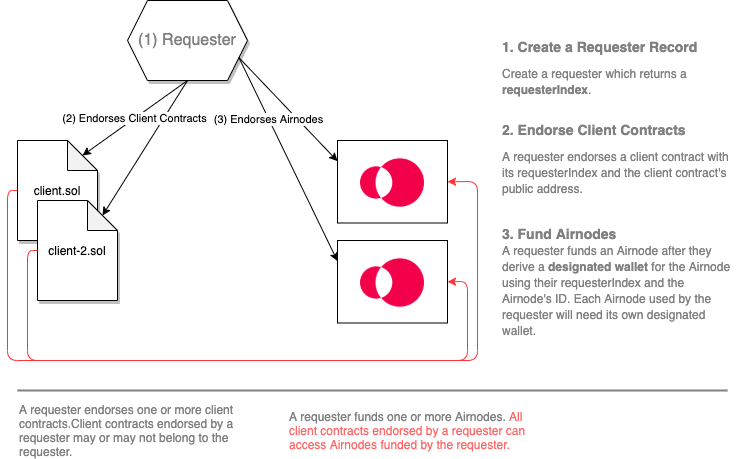
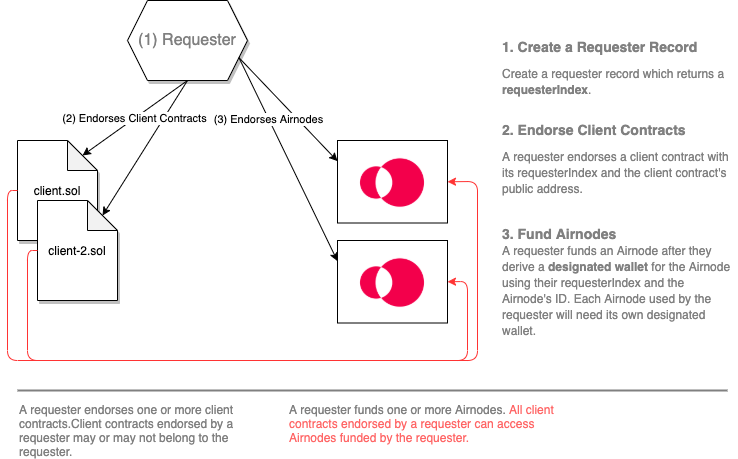
Daily changes Some cleanup on API3 Members role docs. Worked back into the Requesters role headed for the Call an Airnode doc.

Changed region(s): [[0.374, 0.8845, 0.748, 0.976], [0.8103, 0.1525, 0.9973, 0.183]]

diff --git a/docs/.vuepress/components/ChainsSupported.vue b/docs/.vuepress/components/ChainsSupported.vue
@@ -1,35 +1,42 @@
 <template>
   <div>
-    
     <table v-show="version=='0.1.0'">
       <tr>
         <th>Blockchain</th>
         <th>ID</th>
-        <th>AirnodeRrp.sol (contract ID)</th>
+        <th>AirnodeRrp.sol (public address)</th>
       </tr>
       <tr>
-        <td>mainnet</td><td>1</td><td>...</td>
-      </tr>
-      <tr>
-        <td>ropsten</td><td>3</td><td>0xF6d2675468989387e96127546e0CBC9A384fa418</td>
-      </tr>
-      <tr>
-        <td>rinkeby</td><td>4</td><td>...</td>
-      </tr>
-      <tr>
-        <td>goerli</td><td>5</td><td>...</td>
-      </tr>
-      <tr>
-        <td>kovan</td><td>42</td><td>...</td>
-      </tr>
-      <tr>
-        <td>xdai</td><td>100</td><td>...</td>
+        <td style="width:100px;">mainnet</td><td style="width:27px;">1</td><td>...</td>
       </tr>
     </table>
-    <h5 style="margin-top:-14px;color:gray;max-width:580px;">
+    <details class="collapse-chain-box">
+      <summary class="collapse-chain-summary"> View more...</summary>
+      <table v-show="version=='0.1.0'">
+
+        <tr style="margin-top:20px;">
+          <td style="width:100px;">ropsten</td><td style="width:27px;">3</td><td>0xF6d2675468989387e96127546e0CBC9A384fa418</td>
+        </tr>
+        <tr>
+          <td>rinkeby</td><td>4</td><td>...</td>
+        </tr>
+    
+        <tr>
+          <td>goerli</td><td>5</td><td>...</td>
+        </tr>
+        <tr>
+          <td>kovan</td><td>42</td><td>...</td>
+        </tr>
+        <tr>
+          <td>xdai</td><td>100</td><td>...</td>
+        </tr>
+      </table>
+    </details>
+    
+    <h5 style="margin-top:-10px;color:gray;max-width:680px;">
       Airnode version: {{version}}. This table shows EVM-compatible blockchains that 
-      the AirnodeRrp.sol protocol contract has been deployed to as well as the contract ID of each.
-      </h5>
+      the AirnodeRrp.sol protocol contract has been deployed to as well as the public address of each.
+    </h5>
   </div>
 </template>
 
@@ -42,3 +49,16 @@
     }
   }
 </script>
+
+<style scoped>
+.collapse-chain-box{
+  margin-top:-5px;
+  padding-bottom:20px;
+}
+
+.collapse-chain-summary{
+  cursor:pointer;
+  font-weight:bold;
+  margin-left:20px;
+}
+</style>

diff --git a/docs/.vuepress/components/VersionsModal.vue b/docs/.vuepress/components/VersionsModal.vue
@@ -13,8 +13,8 @@ Parameters from parent
 
 <template>
     <div class="modal" v-if="showModal" v-click-outside="onClickOutside">
-        <div v-if="showModal" class="modal-content">
-            <div class="modal-body">
+        <div v-if="showModal">
+            <div>
                 <div style="border-bottom:1px solid lightgrey;">Versions</div>
                   <div v-for="(vrs, index) in versions" :key="index" v-on:click="onClickOutside(vrs.url, $event)">
                     <router-link  :to="vrs.url">

diff --git a/docs/next/grp-members/dao-pool.md b/docs/next/grp-members/dao-pool.md
@@ -99,6 +99,12 @@ API3 aims to set up, maintain, and [monetize](dao-pool.md#monetization) dAPIs at
 ### Earning Rewards
 Earning rewards is simple: everyone who owns [shares of the DAO pool](./voting-power.md) (everyone who has staked API3 tokens into the DAO pool contract) will earn rewards as they are added to the DAO pool. When you schedule tokens to be unstaked, you stop earning rewards for those tokens.
 
+<Todo>
+
+The statement below does not seem to sync with the way the dashboard displays, which is by tokens and not shares.
+
+</Todo>
+
 Remember that when you stake, you receive non-transferable pool shares equal to the current total number of issued shares divided by the total number of tokens staked. Since the reward adds additional tokens to the pool, the "price" for one share will not always be one token.
 
 ### Inflationary Rewards
@@ -106,37 +112,46 @@ Remember that when you stake, you receive non-transferable pool shares equal to 
 In essence, inflationary rewards force token holders to stake and preserve the value of
 their tokens. However, staking is risky due to the funds being used as collateral for the [Insurance Service](dao-pool.md#insuracne-service), and forces the staker to participate in governance to ensure that the risk is minimized. As a combination of the two, an inflationary governance token used as collateral forces all token holders to participate in governance, which is ideal because it maximizes the decentralization of governance. Inflationary rewards are paid weekly by an implicit and automatic process through an on-chain contract.  Furthermore, inflationary rewards are vested for a year, which results in governing parties sharing the project’s long term interests.
 
-The inflationary rewards start at a 75% annual rate (1.44% weekly), and the
-number of tokens minted weekly will be decayed exponentially until annual inflation
-rate becomes 2.5% at the end of year 5. From this point on, the annual inflation
-will stay at a rate of 2.5% for perpetuity. The proposed inflation schedule will be governable.
-
+<!--
 > ![dao-pool-staking-2](../assets/images/token-weekly-emission.png)
 
 As a result the change in the total supply of API3 tokens is illustrated below.
 
 > ![dao-pool-staking-2](../assets/images/token-total-supply.png)
-
-:::tip Inflationary Rewards
-User X and Y both stake 500 API3 tokens, so each has 50% ownership in a 1000 token pool. For a particular week the reward payout is 1% (10 total tokens) and the pool is now 1010 tokens. X and Y now own 505 tokens each based on their 50% ownership. Remember that the 10 reward tokens will not vest for a period of one year.
-:::
+> -->
 
 ### Reward Calculation And Distribution
+
+The staking reward will float to have the total staked amount reach equilibrium at the target. In other words, the staking reward will increase while the staked amount is below the target, and vice versa. It will not have a pre-determined schedule.
+
+Reward amount is represented as APR (annual percentage rate). You can derive APY (annual percentage yield) using an [online calculator](https://www.aprtoapy.com/). Each week, stakers get paid roughly APR/52. There is a governable "APR update step", which is the step size each week the APR will be updated with. Also there are governable minimum and maximum APR values, but these (especially maximum APR) are there as safety measures and should not affect rewards in day-to-day operation. In general, governing the stake target will be the primary tool for regulating rewards.
+
 Rewards are added as staked API3 tokens into the DAO pool each time the `mintReward` function is called. `mintReward` is callable by anyone, once per "epoch" (currently 1 week). When it is called, an amount of API3 tokens is minted and added to the DAO pool:
 
 > `rewardAmount = totalStakedTokens * APR * epochLength / epochsPerYear / 100`
 
 In other words, *the reward is the annual percentage (APR) increase divided by the number of epochs per year (currently ~52)*.
 
-In addition, each time `mintReward` is called, the annual percentage (the reward rate) is updated up or down by APR update step size (1%), according to whether the total number of staked tokens is above or below its target. The initial target is 50%, so if the total number of staked tokens is less than 50% of the total token supply when `mintReward` is called, APR will be raised by 1% for the next reward payout (and vice versa). Thus, APR will constantly be adjusted, but it will always stay between a designated maximum and minimum -- currently 75% and 2.5% respectively.
+In addition, each time `mintReward` is called, the annual percentage (the reward rate) is updated up or down by the APR update step size (1%), according to whether the total number of staked tokens is above or below its target. The initial target is 50%, so if the total number of staked tokens is less than 50% of the total token supply when `mintReward` is called, APR will be raised by 1% for the next reward payout (and vice versa). Thus, APR will constantly be adjusted, but it will always stay between a designated maximum and minimum.
+
+:::tip Example: Rewards Distribution
+User X stakes 600 tokens and user Y stakes 400, so there is a 60% (X) 40% (Y) split ownership in the 1000 token DAO pool. For a particular week the reward payout is 1% (10 total tokens) and the pool is now 1010 tokens. X at 60% now has 606 tokens and and Y has 404. Remember that the 10 reward tokens will not vest for a period of one year.
+:::
 
 ### Reward Withdrawal
 Rewards withdrawals are baked into default withdrawals, except that rewards are locked for 1 year after minting. As a staker, your pool shares will always reflect a proportional right to the pool of staked tokens, including any rewards that have been minted. When you unstake and withdraw your tokens, you will receive:
+
  - your tokens,
  - plus any share of the rewards you earned,
  - minus rewards that were added to the pool within the last year, which will remain staked.
 
+*To summarize reward withdrawal:* you will not be able to withdraw your rewards for a year. Since rewards get paid out every week, you can think of this as a rolling unlock (the rewards you receive this week will get unlocked 1 year later, the rewards you will receive next week will get unlocked 1 year 1 week later, etc.) This 1 year-lock is the secret sauce to good decentralized governance, it essentially aligns the incentives of the stakers/governors with the ones of the DAO/project/token for a whole year.
+
 ## Insurance Service
+
+::: warning Please note 
+ Insurance products are not implemented yet. Before they are, a proposal with a 50% quorum requirement will have to be passed for them to go active
+:::
 
 API3 provides dAPI users with a quantifiable level of _security_ in the form of an on-chain insurance service. Staked tokens in the DAO pool are used to cover potential financial losses from dAPI malfunctions that the dAPI consumer might incur. This accomplishes two goals.
 
@@ -152,14 +167,10 @@ The proposed insurance service is special in the way that it is collateralized b
 The staked tokens in the pool are used as collateral for insurance claims. Any payout results in the reduction of the total token count in the pool. The reduction is charged against each entity's percentage of tokens in the pool.
 
 :::tip Claim Risks
-User X and Y both stake 500 API3 tokens, so each has 50% ownership in a 1000 token pool. There is an insurance claim payout of 3.4 tokens and the pool is now 996.6 tokens. X and Y now own 498.3 tokens each based on their 50% ownership.
+User X and Y both stake 500 API3 tokens, so each has 50% ownership in a 1000 token DAO pool. There is an insurance claim payout of 3.4 tokens and the pool is now 996.6 tokens. X and Y now own 498.3 tokens each based on their 50% ownership.
 :::
 
 ### ClaimManager
-
-::: warning Please note:
-*ClaimsManager has not been implemented or approved by the DAO pool contract as of July 15th, 2021 and is schedule for approval at a later date.*
-:::
 
 To insure against potential system failures, the DAO pool can empower special `ClaimsManager` contracts to withdraw staked tokens directly. Approved `ClaimsManager` contracts do this by calling `payOutClaim(address recipient, uint256 amount)` in the DAO pool contract, which transfers tokens from the DAO pool to the recipient. When this occurs, the total number of staked tokens goes down, and pool share value goes down in turn.
 

diff --git a/docs/next/grp-requesters/become-a-requester.md b/docs/next/grp-requesters/become-a-requester.md
@@ -7,13 +7,15 @@ title: Become a Requester
 <TocHeader />
 <TOC class="table-of-contents" :include-level="[2,3]" />
 
-Become a _requester_ to consume the off-chain API data that an Airnode provides. A _requester_ is an entity (individual, business, etc.) whose contracts make requests to Airnodes. These contracts are called clients. A _requester_ should not be confused with an _end user_ who is someone that uses a requester's client contracts, usually as part of a dApp.
+Become a _requester_ to consume the off-chain API data that an Airnode provides. A _requester_ is an entity (individual, business, etc.) whose contracts make requests to Airnodes. These contracts are called clients or client contracts. A _requester_ should not be confused with an _end user_ who is someone that uses a requester's client contracts, usually as part of a dApp.
 
 Setting up a requester record is needed to allow client contracts access to one or more Airnodes. A requester record is used to endorse client contracts and fund Airnodes.
 
 The following diagram illustrates how to become a requester.
 
 ![become-requester](../assets/images/become-requester.png)
+
+## Requester Admin Commands
 
 There are several requester related commands in the [@api3/airnode-admin](../reference/cli-commands.md#create-requester) package. Here we will use three commands to create a requester record, endorse client contracts and fund Airnodes.
 
@@ -46,18 +48,20 @@ npx @api3/airnode-admin create-requester \
   and admin address 0xaBd9daAdf...
 ```
 
+The command `create-requester` will return a `requester index` and the `requesterAdmin` address that were passed to execute the command. It is important to remember the requester index for future use.
+
 ## Part 2: Endorse Client Contracts
 
 A requester endorses a client contract allowing it make Airnode requests on behave of the requester. Your client contract should already be deployed. 
 
-Endorsing a client contract means it can make Airnode requests, paid for by the designated wallet associated with the Airnode and the requesterIndex of your requester record. [Part 3](become-a-requester.md#part-3-funding-airnodes) will explain more about designated wallets.
+Endorsing a client contract means it can make Airnode requests, paid for by a designated wallet associated with the Airnode and the requesterIndex from your requester record. [Part 3](become-a-requester.md#part-3-funding-airnodes) will explain more about designated wallets.
 
 To endorse a client contract you will need the following.
 
 - A blockchain providerURL such as the URL with your Infura providerID on the Ropsten network.
 - A mnemonic for gas to fund the endorsement.
-- The requesterIndex returned from the call to create-requester. (Part #1 above)
-- The public address of the client contract.
+- The `requesterIndex` returned from the call to create-requester. (Part #1 above)
+- The `clientAddress` which is the public address of the client contract.
 
 [@api3/airnode-admin endorse-client](../reference/cli-commands.md#endorse-client)
 
@@ -73,11 +77,13 @@ npx @api3/airnode-admin endorse-client \
   by requester with index 6
 ```
 
+The command `endorse-client` will return the client contract address and the requester index that were passed to execute the command. 
+
 ## Part 3: Funding Airnodes
 
-To fund a particular Airnode, a requester instructs the Airnode to derive a _designated wallet_ for the requester  using the Airnode's ID and the requester's requesterIndex. Once the wallet is created it must be funded using the public address returned by the command`derive-designated-wallet`. Each Airnode keeps a list of requester designated wallets that can access the Airnode. Learn more about [designated wallets](../reference/protocols/request-response/designated-wallet.md).
+To fund a particular Airnode, a requester instructs the Airnode to derive a _designated wallet_ on behave of the requester  using the Airnode's ID and the requester's requesterIndex. Once the wallet is created it must be funded using the public address returned by the command`derive-designated-wallet`. Each Airnode keeps a list of requester designated wallets that can access the Airnode. Learn more about [designated wallets](../reference/protocols/request-response/designated-wallet.md).
 
-Client contracts endorsed by a requester will have access to all Airnodes the requester has funded. This allows the requester to cover the gas cost when executing an Airnode. However this does not cover the cost of API data that the Airnode serves, see [API Provider Fees](fees.md#api-provider-fees). Requesters need to keep their designated wallets topped off if they want the Airnodes to fulfill requests made by their endorsed client contracts.
+Client contracts endorsed by a requester will have access to all Airnodes the requester has funded using the designated wallet. This allows the requester to cover the gas cost when executing an Airnode. However this does not cover the cost of API data that the Airnode serves, see [API Provider Fees](fees.md#api-provider-fees). Requesters need to keep their designated wallets topped off if they want the Airnodes to fulfill requests made by their endorsed client contracts.
 
 Since the designated wallet is recorded in the cloud provider (i.g., AWS) where Airnode functions live, there are no on-chain transaction gas costs when deriving a designated wallet.
 
@@ -85,11 +91,13 @@ Since the designated wallet is recorded in the cloud provider (i.g., AWS) where 
 
 Learn more about [designated wallets](../reference/protocols/request-response/designated-wallet.md) in the reference section.
 
-To fund an Airnode simply tell any Airnode to derive a _designated wallet_ for your requesterIndex. This will return the public address of the wallet so you can fund it.
+To fund an Airnode simply tell any Airnode to derive a _designated wallet_ for your requesterIndex. This will return the public address of the designated wallet so you can fund it.
+
+To derive a designated wallet for an Airnode and fund it, you will need the following.
 
 - A blockchain providerURL such as the URL with your Infura providerID on the Ropsten network.
-- The desired Airnode's ID, airnodeId.
-- The requester's requesterIndex that was generated when creating a requester record.
+- The `airnodeId` of the desired Airnode.
+- The requester's `requesterIndex` that was generated when creating a requester record.
 
 [@api3/airnode-admin derive-designated-wallet](../reference/cli-commands.md#derive-designated-wallet)
 
@@ -105,6 +113,8 @@ npx @api3/airnode-admin derive-designated-wallet \
   to be 0xa5C073E31fAb1F8acf... # Here is the wallet's public address.
 ```
 
+The command derive-designated-wallet will return the public address of the designated wallet to be funded.
+
 ## Record Keeping
 
 During and after creating/managing your requester record there are some items you should write down for future use.
@@ -119,4 +129,4 @@ During and after creating/managing your requester record there are some items yo
 
 \* Do not loose your requesterIndex, it cannot be recovered.
 
-\** You can acquire the public address later should you forget it by running the command`derive-designated-wallet`again. Since the designated wallet was already created for the requesterIndex/airnodeId pair, the command will only return the known public address for the wallet.
+\** You can acquire the public address of a designated wallet later, if you loose it, by running the command`derive-designated-wallet`again. Since the designated wallet was already created for the requesterIndex/airnodeId pair, the command will only return the known public address for the wallet.

diff --git a/docs/next/grp-requesters/call-an-airnode.md b/docs/next/grp-requesters/call-an-airnode.md
@@ -24,7 +24,7 @@ The AirnodeRrp protocol is designed to be flexible and is meant to serve a varie
 3. Deploy the client contract
 4. [Endorse](become-a-requester.md#part-2-endorse-client-contracts) the client contract
 
-This document focuses items 1 & 2 above, on making a request and capturing the response from an Airnode in  your client contract.
+This document focuses items 1 & 2 above, making a request and capturing the response from an Airnode. See [Endorse Client Contracts](become-a-requester.md#part-2-endorse-client-contracts) to learn more about client contract endorsements. Deploying your client contract is beyond the scope of this doc.
 
 ## Step #1: Inherit AirnodeRrpClient.sol
 
@@ -33,7 +33,7 @@ To get started a client contract inherits from the [AirnodeRrpClient](https://gi
 ```solidity
 import "@api3/airnode-protocol/contracts/AirnodeRrpClient.sol";
 
-contract ExampleClient is AirnodeRrpClient {
+contract ExampleClientContract is AirnodeRrpClient {
   ...
   constructor (address airnodeAddress)
       public
@@ -42,7 +42,9 @@ contract ExampleClient is AirnodeRrpClient {
   ...
 }
 ```
-Note the constructor parameter `airnodeAddress` which is the public address of the AirnodeRrp contract on the blockchain you wish to use. It is used by AirnodeRrpClient to point itself to the AirnodeRrp contract on-chain.
+Note the constructor parameter `airnodeAddress` which is the public address of the AirnodeRrp contract on the blockchain you wish to use. It is used by AirnodeRrpClient to point itself to the AirnodeRrp contract on-chain. See the the list of available addresses below.
+
+> <ChainsSupported :version="'0.1.0'" />
 
 
 ## Step #2: Make a Request
@@ -56,7 +58,7 @@ Once the request has been made the AirnodeRrp contract will return a `requestId`
 ```solidity
 import "@api3/airnode-protocol/contracts/AirnodeRrpClient.sol";
 
-contract ExampleClient is AirnodeRrpClient {
+contract ExampleClientContract is AirnodeRrpClient {
   mapping(bytes32 => bool) public incomingFulfillments;
   mapping(bytes32 => int256) public fulfilledData;
 
@@ -74,7 +76,7 @@ contract ExampleClient is AirnodeRrpClient {
       )
       external
   {
-      bytes32 requestId = airnode.makeFullRequest( // Make the request 
+      bytes32 requestId = airnode.makeFullRequest( // Make the Airnode request 
           airnodeId,              // airnodeId
           endpointId,             // endpointId
           requesterInd,           // requesterIndex

diff --git a/docs/next/grp-requesters/self-serve-platforms.md b/docs/next/grp-requesters/self-serve-platforms.md
@@ -13,9 +13,9 @@ Airnode is composed of two parts: the **AirnodeRrp.sol** (on-chain protocol cont
 
 ## Is my platform compatible?
 
-The table below shows a list of EVM compatible blockchains (smart contract platforms) that API3 has deployed the _AirnodeRrp.sol protocol contract_ on. An _Airnode application_ can see the _protocol contract_ using its contract ID. 
+The table below shows a list of EVM compatible blockchains (smart contract platforms) that API3 has deployed the _AirnodeRrp.sol protocol contract_ on. An _Airnode application_ can see the _protocol contract_ using its public address. 
  
-<ChainsSupported :version="'0.1.0'" />
+> <ChainsSupported :version="'0.1.0'" />
 
 This does not mean only these chains can be used. If you are using a smart contract platform that does not have the _AirnodeRrp.sol protocol contract_ deployed by API3 you could add it yourself. API3 has received requests by teams of smart contract platforms and decentralized applications built on them to integrate Airnode and thus gaining access to API data and services. A lot of the smart contract platforms are directly compatible with Airnode, meaning that the integration effort will be trivial and can even be done with minimal support from API3.
 

diff --git a/docs/next/grp-providers/guides/provider/configuring-airnode.md b/docs/next/grp-providers/guides/provider/configuring-airnode.md
@@ -78,7 +78,7 @@ The `chains` field (array) lists the blockchains the Airnode deployment will ser
 
 <Todo>
 
-The complete 0.1.0 list of Ethereum providers and their AirnodeRRP contractIDs does not appear to be ready. [See the list](https://github.com/api3dao/airnode/tree/master/packages/protocol/deployments)
+The complete 0.1.0 list of Ethereum providers and their AirnodeRRP public addresses does not appear to be ready. [See the list](https://github.com/api3dao/airnode/tree/master/packages/protocol/deployments)
 
 </Todo>
 
